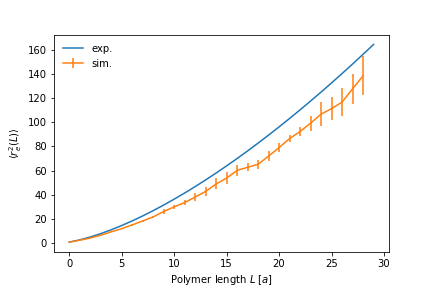
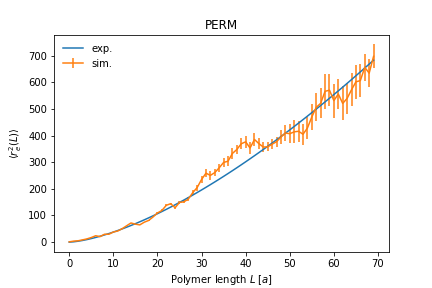
added plot

diff --git a/polpymer/core_funcs.py b/polpymer/core_funcs.py
@@ -124,7 +124,7 @@ class Polymer:
 
     end_to_end: np.ndarray = None
     gyration: np.ndarray = None
-    
+
     pruned: bool = None
 
     def __init__(self,
@@ -158,7 +158,7 @@ class Polymer:
         self.chain_length = 1
 
         self.claimed_sites = [origin, self.chain_end]
-        
+
         self.pruned = False
 
     def __iter__(self) -> Monomer:
@@ -318,7 +318,7 @@ class Dish: #As in a Petri-dish
         self.dimension = dims
         self.origin = origin
         self.polymers = []
-        
+
 
     def find_polymer(self, length: int):
         """find a polymer that has the desired lenght L
@@ -395,18 +395,18 @@ class Dish: #As in a Petri-dish
         self.weights = w
 
         return end_to_end, gyration, w
-    
+
     def PERM(self, N: int, cplus: float, L: int):
         cminus = cplus/10
-        
+
         for i in range(N):
             m, polymer = self.find_polymer(1)
             self.polymers.append(polymer)
-            
+
         grow_directions = [0,1,2,3]
-            
+
         for i in range(L-1):
-              
+
             w = []
             N_polymers = 0
             for polymer in self.polymers:
@@ -426,20 +426,20 @@ class Dish: #As in a Petri-dish
                     else:
                         polymer.pruned = True
                         m.append(0)
-                    
+
                 else:
                     m.append(0)
                 polymer.node_m_vals = m
                 polymer.compute_node_weights()
                 w.append(polymer.node_weights[-1])
-                
-                
+
+
             W_tilde = sum(w)/N_polymers
             W_plus = cplus*W_tilde
             W_minus = cminus*W_tilde
-            
+
             copied_polymers = []
-            
+
             for polymer in self.polymers:
                 if not polymer.pruned:
                     if polymer.node_weights[-1] < W_minus:
@@ -453,11 +453,29 @@ class Dish: #As in a Petri-dish
                         polymer.node_m_vals[-1] = 0.5*polymer.node_m_vals[-1]
                         polymer.compute_node_weights()
                         copied_polymers.append(deepcopy(polymer))
-                    
+
             for polymer in copied_polymers:
                 self.polymers.append(polymer)
-                
-                
+
+        amnt = len(self.polymers)
+
+        end_to_end = np.zeros((amnt,L))
+        gyration = np.zeros((amnt,L))
+        w = np.zeros((amnt,L))
+
+        for i in range(amnt):
+            polymer = self.polymers[i]
+            w_i = polymer.node_weights
+            end = len(w_i)
+            w[i,0:end] = w_i
+            end_to_end[i,0:end-1], gyration[i,0:end-1] = polymer.observables()
+
+        self.weights = w
+        self.end_to_end = end_to_end
+        self.gyration = gyration
+
+
+
 # Checking if the file is ran by itself or imported:
 if __name__ == "__main__":
     print("import module with 'from polpymer.data_funcs import *' \

diff --git a/debugging.py b/debugging.py
@@ -1,4 +1,11 @@
-from polpymer.core_funcs import Dish, Polymer, Monomer
+from polpymer.core_funcs import Polymer, Monomer, Dish
+from polpymer.data_funcs import plot_polymer, grow_polymer, \
+     generate_N_polymers, expect_observ, error_observ
+import numpy as np
+import matplotlib.pyplot as plt
 
-dish = Dish((10,10), (5,5))
-dish.generate_N_polymers(10, 5)
+
+
+dish = Dish((10,10),(5,5))
+dish.PERM(10, 2, 100)
+print(len(dish.polymers))
